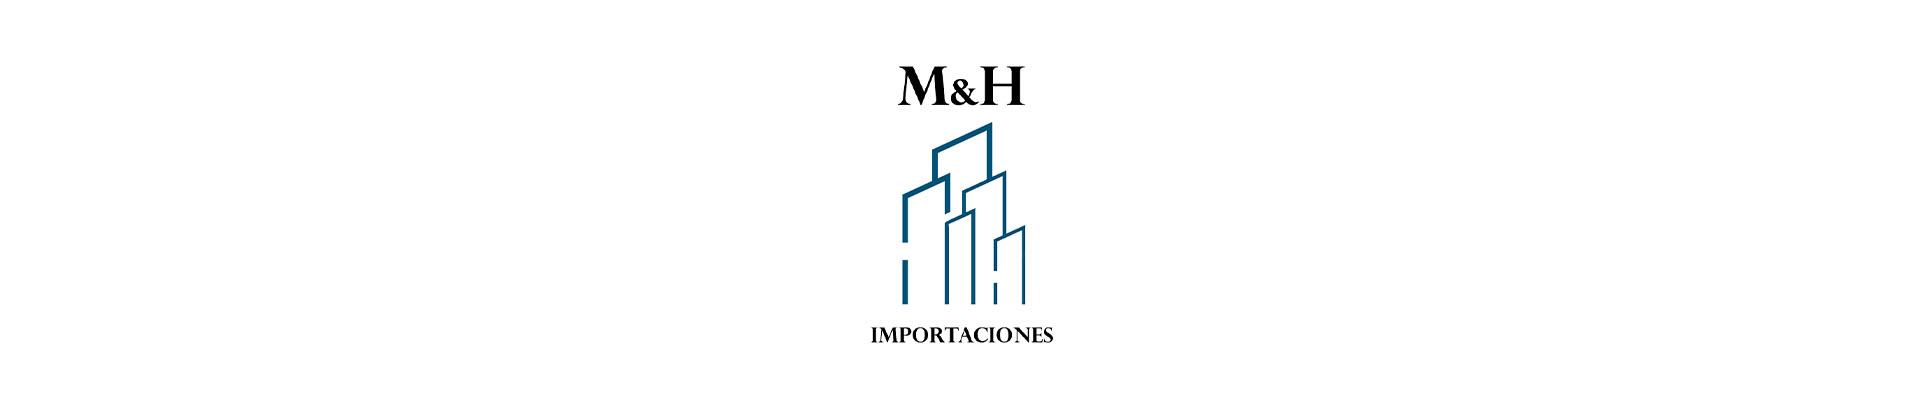
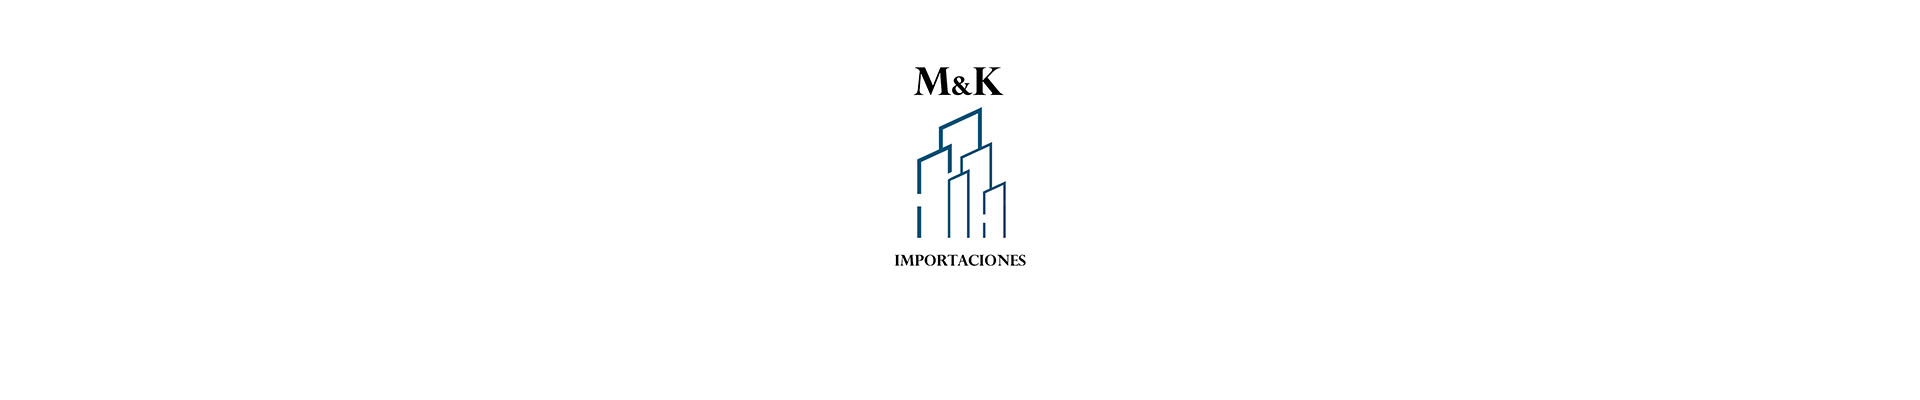
final

Changed region(s): [[0.4688, 0.15, 0.5312, 0.75], [0.4375, 0.81, 0.5625, 0.87]]

diff --git a/index.html b/index.html
@@ -3,7 +3,7 @@
 <head>
     <meta charset="UTF-8">
     <meta name="viewport" content="width=device-width, initial-scale=1.0">
-    <title>M&H Imports</title>
+    <title>M&K Imports</title>
     <link rel="shortcut icon" href="./minilogo.png" type="image/x-icon">
     <link rel="stylesheet" href="./css/style.css">
 </head>
